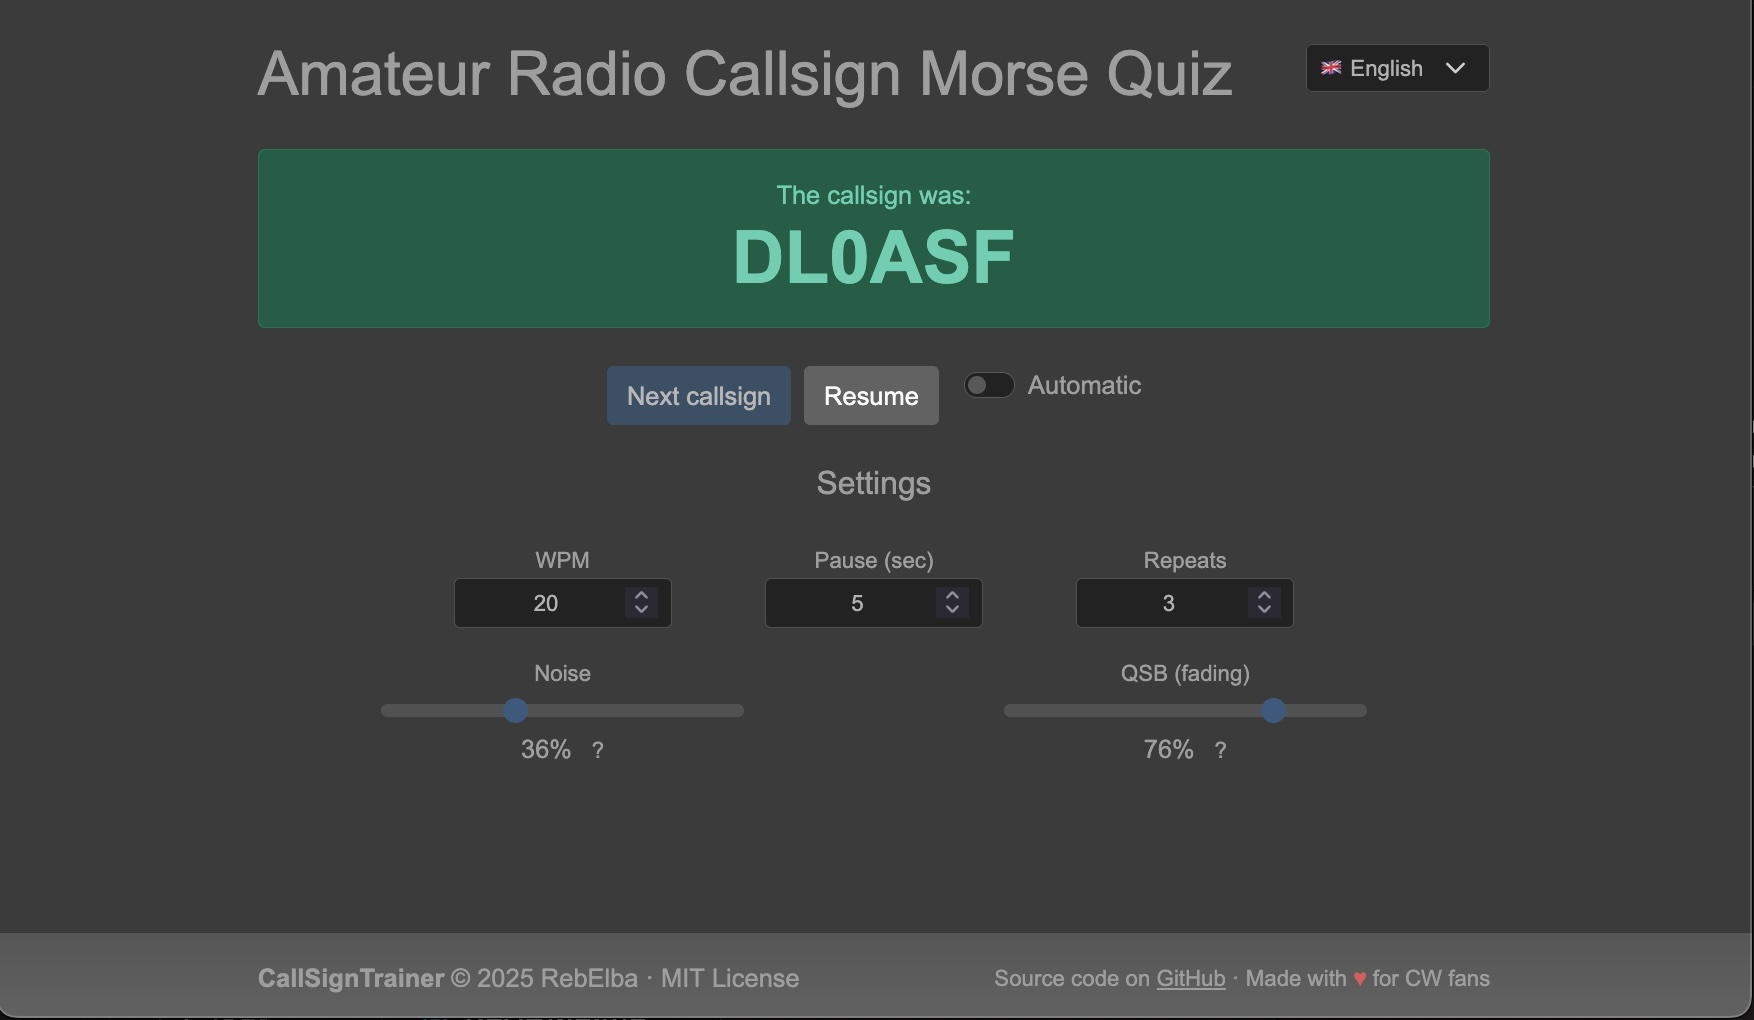
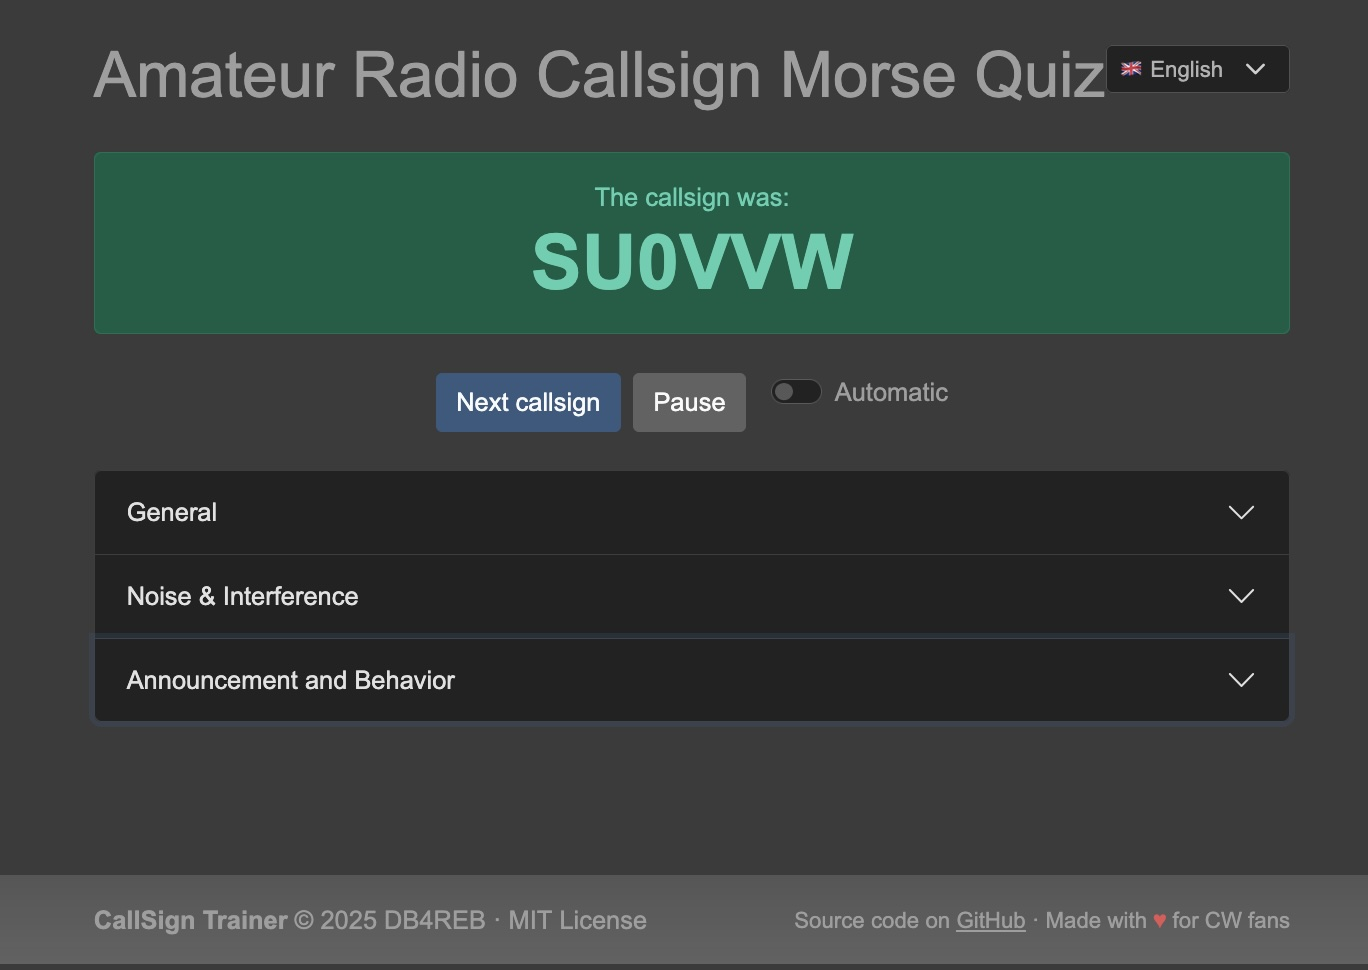
Added Voice Support - new screenshots

diff --git a/js/app.js b/js/app.js
@@ -376,6 +376,20 @@ document.addEventListener('DOMContentLoaded', () => {
                 );
                 utter.lang = langObj ? langObj.voice : 'de-DE';
                 utter.onend = nextStep;
+
+                // Stimme setzen (wie in showResult)
+                const selectedVoiceURI = localStorage.getItem('voiceURI') || '';
+                const voices = window.speechSynthesis.getVoices();
+                if (selectedVoiceURI) {
+                    const found = voices.find(v => v.voiceURI === selectedVoiceURI);
+                    if (found) utter.voice = found;
+                } else {
+                    let preferred = voices.find(v => v.lang === utter.lang && v.gender === 'female');
+                    if (!preferred) preferred = voices.find(v => v.lang === utter.lang && /google|apple/i.test(v.name));
+                    if (!preferred) preferred = voices.find(v => v.lang === utter.lang);
+                    if (preferred) utter.voice = preferred;
+                }
+
                 window.speechSynthesis.speak(utter);
             } else {
                 nextStep();
@@ -462,6 +476,18 @@ document.addEventListener('DOMContentLoaded', () => {
             const langObj = availableLanguages.find(l => l.code === lang);
             const utter = new SpeechSynthesisUtterance(`${t('solution')} ${call.split('').join(' ')}`);
             utter.lang = langObj ? langObj.voice : 'de-DE';
+            // Stimme setzen:
+            const selectedVoiceURI = localStorage.getItem('voiceURI') || '';
+            const voices = window.speechSynthesis.getVoices();
+            if (selectedVoiceURI) {
+                const found = voices.find(v => v.voiceURI === selectedVoiceURI);
+                if (found) utter.voice = found;
+            } else {
+                let preferred = voices.find(v => v.lang === utter.lang && v.gender === 'female');
+                if (!preferred) preferred = voices.find(v => v.lang === utter.lang && /google|apple/i.test(v.name));
+                if (!preferred) preferred = voices.find(v => v.lang === utter.lang);
+                if (preferred) utter.voice = preferred;
+            }
             window.speechSynthesis.speak(utter);
         }
         if (autoMode) {
@@ -617,7 +643,17 @@ document.addEventListener('DOMContentLoaded', () => {
                         <option value="superhero">${t('theme_superhero')}</option>
                         <option value="yeti">${t('theme_yeti')}</option>
                     </select>
-                </div>          
+                </div> 
+                <div class="mb-2 d-flex flex-column">
+                    <label for="voiceSelect" class="form-label mb-0 small w-100">${t('voice')}</label>
+                    <div class="d-flex align-items-center gap-2">
+                        <select id="voiceSelect" class="form-select form-select-sm" style="max-width:300px;">
+                            <option value="">${t('voice_default')}</option>
+                        </select>
+                        <button id="voiceTestBtn" type="button" class="btn btn-outline-secondary btn-sm">${t('voice_test')}</button>
+                    </div>
+                    <small class="text-muted">${t('voice_help')}</small>
+                </div>
             </div>
             </div>
         </div>
@@ -710,6 +746,67 @@ document.addEventListener('DOMContentLoaded', () => {
             }
             themeLink.href = themeHref;
         }
+
+        // Populate voice selection
+        const voiceSelect = document.getElementById('voiceSelect');
+        const savedVoiceURI = localStorage.getItem('voiceURI') || '';
+
+        function populateVoices() {
+            if (!('speechSynthesis' in window)) return;
+            const voices = window.speechSynthesis.getVoices();
+            // Filter nach aktueller Sprache
+            const langObj = availableLanguages.find(l => l.code === lang);
+            const langCode = langObj ? langObj.voice : 'de-DE';
+            // Nur Stimmen für die aktuelle Sprache
+            const filtered = voices.filter(v => v.lang === langCode);
+            // Sortiere: bevorzugt weiblich, dann Google/Apple, dann Rest
+            filtered.sort((a, b) => {
+                // Weiblich bevorzugen
+                if (a.gender === 'female' && b.gender !== 'female') return -1;
+                if (a.gender !== 'female' && b.gender === 'female') return 1;
+                // Google/Apple bevorzugen
+                if (/google|apple/i.test(a.name) && !/google|apple/i.test(b.name)) return -1;
+                if (!/google|apple/i.test(a.name) && /google|apple/i.test(b.name)) return 1;
+                return a.name.localeCompare(b.name);
+            });
+            // Dropdown befüllen
+            voiceSelect.innerHTML = `<option value="">${t('voice_default')}</option>`;
+            filtered.forEach(voice => {
+                voiceSelect.innerHTML += `<option value="${voice.voiceURI}"${voice.voiceURI === savedVoiceURI ? ' selected' : ''}>${voice.name} (${voice.lang})</option>`;
+            });
+        }
+        if ('speechSynthesis' in window) {
+            populateVoices();
+            // Stimmen können asynchron nachgeladen werden
+            window.speechSynthesis.onvoiceschanged = populateVoices;
+        }
+
+        // Auswahl speichern
+        voiceSelect.addEventListener('change', (e) => {
+            localStorage.setItem('voiceURI', e.target.value);
+        });
+
+        // Test button for voice
+        document.getElementById('voiceTestBtn').addEventListener('click', () => {
+            if ('speechSynthesis' in window) {
+                const langObj = availableLanguages.find(l => l.code === lang);
+                const utter = new SpeechSynthesisUtterance(t('new_round'));
+                utter.lang = langObj ? langObj.voice : 'de-DE';
+                const selectedVoiceURI = localStorage.getItem('voiceURI') || '';
+                const voices = window.speechSynthesis.getVoices();
+                if (selectedVoiceURI) {
+                    const found = voices.find(v => v.voiceURI === selectedVoiceURI);
+                    if (found) utter.voice = found;
+                } else {
+                    let preferred = voices.find(v => v.lang === utter.lang && v.gender === 'female');
+                    if (!preferred) preferred = voices.find(v => v.lang === utter.lang && /google|apple/i.test(v.name));
+                    if (!preferred) preferred = voices.find(v => v.lang === utter.lang);
+                    if (preferred) utter.voice = preferred;
+                }
+                window.speechSynthesis.cancel(); // Stop any running speech
+                window.speechSynthesis.speak(utter);
+            }
+        });
 
     }
 

diff --git a/README.md b/README.md
@@ -8,6 +8,7 @@ CallSignTrainer is a web application for practicing and training amateur radio c
 - Adjustable speed (WPM), pause duration, repetitions, noise level, and QSB simulation
 - Speech output for hints and solutions (Text-to-Speech)
 - Two languages: German and English
+- Selectable color themes (including Darkmode and various Bootswatch themes)
 - Supports desktop and mobile browsers (including Firefox, Safari, Chrome)
 - Automatic and manual mode
 
@@ -29,6 +30,8 @@ CallSignTrainer is a web application for practicing and training amateur radio c
 2. Open in your browser (e.g., via a local web server like MAMP/XAMPP or upload directly to a web server).
 3. The application is ready to use.
 
+---
+
 ## Screenshots
 
 ### Main Screen
@@ -39,6 +42,20 @@ CallSignTrainer is a web application for practicing and training amateur radio c
 
 ### End of Round
 ![End of Round](images/screenshot_end_round.jpg)
+
+### Noise Settings
+![End of Round](images/screenshot_noise.jpg)
+
+### Change Theme
+![End of Round](images/screenshot_change_theme.jpg)
+
+### Announcement and Behavior
+![End of Round](images/screenshot_announce.jpg)
+
+### Change Voice
+![End of Round](images/screenshot_change_voice.jpg)
+
+---
 
 ## Third Party / Credits
 
@@ -58,4 +75,4 @@ MIT License
 
 ---
 
-Enjoy training!
+Enjoy!
